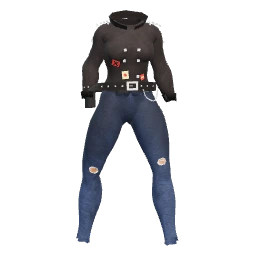
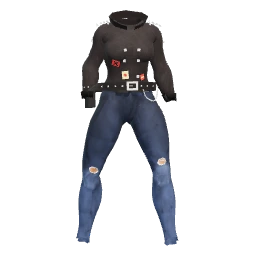
KA B2: denim, chainmail and patchwork as the coat detail
detail.webp (local FLUX.2 klein): a grey strip of three seamless tiles,
packed into the detail texture's RGB channels by loadDetail (awaited in
loadCharacters). DETAILS tones measured (180, test re-measures). Palettes:
leder trousers denim with lighter knee spots, kette:zit coat/hem/cuff mail,
spaeti coat/hem/cuff patch. Hero draws unchanged; icons I17, I49, I57
rendered again.

Changed region(s): [[0.5938, 0.625, 0.6875, 0.8438], [0.3125, 0.6562, 0.4062, 0.75], [0.3438, 0.8438, 0.375, 0.875]]

diff --git a/src/render/characters.ts b/src/render/characters.ts
@@ -7,7 +7,7 @@ import { DETAIL_PIECES, ensureDetail } from './hero-wear';
 import { HeroModel } from './hero-model';
 import { HERO_LAYER } from './layers';
 import {
-  AnimationClip, AnimationMixer, Color, DataTexture, Group, LinearFilter, LinearMipmapLinearFilter, LoopRepeat, Mesh, RGBAFormat, RepeatWrapping, SRGBColorSpace, TextureLoader,
+  AnimationClip, AnimationMixer, Color, DataTexture, Group, LinearFilter, LinearMipmapLinearFilter, LoopRepeat, Mesh, RGBAFormat, RepeatWrapping, SRGBColorSpace, TextureLoader, ImageLoader,
   Vector3, type AnimationAction, type BufferGeometry, type Object3D, type Texture,
 } from 'three';
 import { GLTFLoader, type GLTF } from 'three/examples/jsm/loaders/GLTFLoader.js';
@@ -116,9 +116,12 @@ async function loadClothing(anisotropy: number) {
   }));
 }
 
+/** KA B2: the grey detail strip (denim | mail | patch, 256 px cells; local FLUX.2 klein, `docs/local-ai-assets.md`). */
+const DETAIL_URL = new URL('../../assets/textures/hero/detail.webp', import.meta.url).href;
+
 /**
  * KA part B: the packed detail texture, one tiling grey material per channel (R denim, G chainmail, B patchwork),
- * 256 px, sRGB, repeating. Until step B2 delivers `detail.webp` every channel is flat at its `DETAILS` tone.
+ * 256 px, sRGB, repeating. Every channel is flat at its `DETAILS` tone until `loadDetail` packs the strip in.
  */
 function detailTexture(anisotropy: number): DataTexture {
   const S = 256, data = new Uint8Array(S * S * 4), ids = Object.keys(DETAILS) as DetailId[];
@@ -133,6 +136,27 @@ function detailTexture(anisotropy: number): DataTexture {
   t.anisotropy = anisotropy;
   t.needsUpdate = true;
   return t;
+}
+
+/**
+ * Packs cell i of the grey strip into channel i of `t` (lossy WebP cannot keep packed channels apart, so the file
+ * is grey and the packing happens here). A missing file keeps the flat tones (the look before B2).
+ */
+async function loadDetail(t: DataTexture): Promise<void> {
+  if (typeof document === 'undefined') return;
+  try {
+    const img = await new ImageLoader().loadAsync(DETAIL_URL);
+    const S = t.image.width, c = document.createElement('canvas');
+    c.width = S * 3;
+    c.height = S;
+    const g = c.getContext('2d', { willReadFrequently: true })!;
+    g.drawImage(img, 0, 0, S * 3, S);
+    const px = g.getImageData(0, 0, S * 3, S).data, out = t.image.data as Uint8Array;
+    for (let y = 0; y < S; y++) for (let x = 0; x < S; x++) for (let ch = 0; ch < 3; ch++) out[(y * S + x) * 4 + ch] = px[(y * S * 3 + ch * S + x) * 4]!;
+    t.needsUpdate = true;
+  } catch {
+    // Flat tones stay.
+  }
 }
 
 /**
@@ -209,6 +233,7 @@ function prepare(scene: Object3D, materials: Materials): void {
 export async function loadCharacters(materials: Materials, mechs: boolean | 'small' = false, humans = true, females = true, bosses?: readonly string[]): Promise<CharacterAssets> {
   const loader = new GLTFLoader();
   const clothingLoad = loadClothing(materials.profile.anisotropy);
+  const detail = detailTexture(materials.profile.anisotropy), detailLoad = loadDetail(detail);
   const mechLoad = mechs ? Promise.all((mechs === 'small' ? [mechUrl] : [mechUrl, mechBigUrl]).map((u) => loader.loadAsync(u))) as Promise<[GLTF, GLTF?]> : null;
   // H3: the human boss base only where a male humanoid boss can appear (review fix: not on Alexanderplatz or in the camp).
   const own = (Object.entries(OWN_BODIES) as Array<[EnemyKind, { url: string; base: 'human' | 'female' }]>).filter(([k, o]) => (o.base === 'human' ? humans : females) && (!bosses || bosses.includes(k)));
@@ -218,7 +243,8 @@ export async function loadCharacters(materials: Materials, mechs: boolean | 'sma
   const [heroGltf, zombieGltf, animGltf, raptorGltf, rexGltf, humanGltf, femaleGltf] = await Promise.all([heroUrl, zombieUrl, animsUrl, raptorUrl, rexUrl, humans ? humanUrl : null, females ? femaleUrl : null].map((u) => (u ? loader.loadAsync(u) : Promise.resolve(undefined)))) as [GLTF, GLTF, GLTF, GLTF, GLTF, GLTF | undefined, GLTF | undefined];
   const ownGltfs = await ownLoad;
   for (const g of new Set([heroGltf, zombieGltf, raptorGltf, rexGltf, humanGltf, femaleGltf, ...ownGltfs])) if (g) prepare(g.scene, materials);
-  const detail = detailTexture(materials.profile.anisotropy), swatch = new Color().setRGB(225 / 255, 0, 0, SRGBColorSpace).r;
+  await detailLoad;
+  const swatch = new Color().setRGB(225 / 255, 0, 0, SRGBColorSpace).r;
   const detailGain = new Vector3(...[0, 1, 2].map((c) => {
     const id = (Object.keys(DETAILS) as DetailId[]).find((d) => DETAILS[d].channel === c)!;
     return swatch / new Color().setRGB(DETAILS[id].tone / 255, 0, 0, SRGBColorSpace).r;

diff --git a/src/data/hero-look.ts b/src/data/hero-look.ts
@@ -67,9 +67,9 @@ export interface Spot { roles: readonly Role[]; x: number; y: number; r: number;
  * (`DETAIL_PIECES` in `src/render/hero-wear.ts`). One packed texture holds the three, one per colour channel.
  */
 export type DetailId = 'denim' | 'mail' | 'patch';
-/** Channel in the packed detail texture, tile size (m), and the cell's mean sRGB tone (225 = the coat swatch: no change until B2 measures it). */
+/** Channel in the packed detail texture (= its cell in `detail.webp`), tile size (m), and the cell's mean sRGB tone (measured; a test reads the file again). */
 export const DETAILS: Readonly<Record<DetailId, { channel: 0 | 1 | 2; tile: number; tone: number }>> = {
-  denim: { channel: 0, tile: 0.5, tone: 225 }, mail: { channel: 1, tile: 0.3, tone: 225 }, patch: { channel: 2, tile: 0.5, tone: 225 },
+  denim: { channel: 0, tile: 0.5, tone: 180 }, mail: { channel: 1, tile: 0.3, tone: 180 }, patch: { channel: 2, tile: 0.5, tone: 180 },
 };
 export interface Palette { roles: Partial<Record<Role, string>>; bands?: readonly Band[]; spots?: readonly Spot[]; detail?: Partial<Record<Role, DetailId>> }
 
@@ -80,7 +80,9 @@ export const PALETTES: Readonly<Record<string, Palette>> = {
   // Körper: Köpenick
   mantel: { roles: { coat: '#6b6538', hem: '#4a4626', cuff: '#4a4626', trousers: '#4a4038', leather: '#3a2414' } },
   // Körper: Xhain
-  leder: { roles: { coat: '#2a2426', hem: '#1a1416', cuff: '#1a1416', trousers: '#3a4a6a', leather: '#141012', brass: '#d8dce0' } },
+  // KA B2: denim jeans with worn, lighter knees.
+  leder: { roles: { coat: '#2a2426', hem: '#1a1416', cuff: '#1a1416', trousers: '#3a4a6a', leather: '#141012', brass: '#d8dce0' }, detail: { trousers: 'denim' },
+    spots: [{ roles: ['trousers'], x: 0.1, y: 0.5, r: 0.06, hex: '#5a6e94', side: 'front' }, { roles: ['trousers'], x: -0.1, y: 0.5, r: 0.06, hex: '#5a6e94', side: 'front' }] },
   feuer: { roles: { coat: '#a8281a', hem: '#e8d36a', cuff: '#6a160e', trousers: '#2a2c38', leather: '#1e1a1a', brass: '#b8bcc0' },
     bands: [{ roles: COAT, axis: 'y', from: 1.24, to: 1.275, hex: '#e8d36a' }, { roles: COAT, axis: 'x', from: 0.47, to: 0.5, hex: '#e8d36a' }, { roles: ['trousers'], axis: 'y', from: 0.25, to: 0.285, hex: '#e8d36a' }] },
   bvg: { roles: { coat: '#26304a', hem: '#f2c230', cuff: '#f2c230', trousers: '#222a40', leather: '#141620', brass: '#f2c230' } },
@@ -95,10 +97,11 @@ export const PALETTES: Readonly<Record<string, Palette>> = {
     bands: [{ roles: ['vest'], axis: 'y', from: 1.13, to: 1.16, hex: '#f08a24' }, { roles: ['vest'], axis: 'y', from: 1.19, to: 1.22, hex: '#f08a24' }] },
   'mantel:spree': { roles: { coat: '#1f7a6a', hem: '#0e4a40', cuff: '#0e4a40', trousers: '#1e3a36', leather: '#2aa890', brass: '#cfe8e0' },
     bands: [{ roles: COAT, axis: 'y', from: 0.6, to: 0.635, hex: '#7fe0c8', wave: 0.018 }, { roles: COAT, axis: 'y', from: 0.665, to: 0.69, hex: '#5ac8b0', wave: 0.018 }] },
-  // Steel darker than the mockup's base: there the mail ring pattern darkens it (texture from Codex later).
-  'kette:zit': { roles: { coat: '#6c727a', hem: '#4a5058', cuff: '#4a5058', trousers: '#3a3c42', leather: '#5a2a1a', brass: '#e0b040' } },
+  // Steel darker than the mockup's base; the mail rings (KA B2 detail) sit on coat, hem and cuffs.
+  'kette:zit': { roles: { coat: '#6c727a', hem: '#4a5058', cuff: '#4a5058', trousers: '#3a3c42', leather: '#5a2a1a', brass: '#e0b040' }, detail: { coat: 'mail', hem: 'mail', cuff: 'mail' } },
   // Körper: legendaries
-  spaeti: { roles: { coat: '#5a2a78', hem: '#3a1a50', cuff: '#3a1a50', trousers: '#2a2430', leather: '#2a1a1a', brass: '#f2d14b' },
+  // KA B2: patchwork squares under the coloured patches.
+  spaeti: { roles: { coat: '#5a2a78', hem: '#3a1a50', cuff: '#3a1a50', trousers: '#2a2430', leather: '#2a1a1a', brass: '#f2d14b' }, detail: { coat: 'patch', hem: 'patch', cuff: 'patch' },
     spots: [
       { roles: COAT, x: -0.12, y: 0.98, r: 0.045, hex: '#e07020', side: 'front' }, { roles: COAT, x: 0.13, y: 0.84, r: 0.05, hex: '#2f8a4a', side: 'front' },
       { roles: COAT, x: -0.16, y: 0.66, r: 0.05, hex: '#d8c040', side: 'front' }, { roles: COAT, x: 0.1, y: 0.6, r: 0.045, hex: '#c8302a', side: 'front' },

diff --git a/src/render/hero-wear.test.ts b/src/render/hero-wear.test.ts
@@ -1,5 +1,6 @@
+import sharp from 'sharp';
 import { describe, expect, it } from 'vitest';
-import { CUT, PALETTES, type Palette } from '../data/hero-look';
+import { CUT, DETAILS, PALETTES, type Palette } from '../data/hero-look';
 import { readHeroGlb } from './hero-glb-node';
 import { CHART_AXES, ROLE_IDS, chartOf, detailAttributes, ensureDetail, pieceInfo, pieceVariant } from './hero-wear';
 
@@ -150,13 +151,23 @@ describe('coat detail (KA part B)', () => {
 
   it('a palette without detail shares the zero pair, and variants stay cached', () => {
     const info = pieceInfo(coat, 'a_mantel');
-    const a = detailAttributes(src, info, 'leder'), b = detailAttributes(src, info, '');
+    const a = detailAttributes(src, info, 'mantel'), b = detailAttributes(src, info, '');
     expect(a.w).toBe(b.w);
     expect(Array.from(a.w.array).every((x) => x === 0)).toBe(true);
-    const v1 = pieceVariant(coat, 'a_mantel', src, 'leder', 0, 0), v2 = pieceVariant(coat, 'a_mantel', src, 'leder', 0, 0);
+    const v1 = pieceVariant(coat, 'a_mantel', src, 'mantel', 0, 0), v2 = pieceVariant(coat, 'a_mantel', src, 'mantel', 0, 0);
     expect(v1).toBe(v2);
     expect(v1.attributes.detailW).toBe(a.w);
     ensureDetail('a_mantel', src);
     expect(src.attributes.detailW).toBe(a.w);
+  });
+
+  it('DETAILS tones match the mean of each cell of detail.webp (within 2), one cell per channel', async () => {
+    const { data, info } = await sharp('assets/textures/hero/detail.webp').greyscale().raw().toBuffer({ resolveWithObject: true });
+    expect([info.width, info.height]).toEqual([768, 256]);
+    for (const d of Object.values(DETAILS)) {
+      let sum = 0;
+      for (let y = 0; y < 256; y++) for (let x = 0; x < 256; x++) sum += data[y * 768 + d.channel * 256 + x]!;
+      expect(Math.abs(sum / 65536 - d.tone)).toBeLessThanOrEqual(2);
+    }
   });
 });

diff --git a/docs/asset-pipeline.md b/docs/asset-pipeline.md
@@ -99,7 +99,7 @@ T1 is done (PR #14). The T1b paving and leaf images are built, with performance 
 | P24 | Shared landmark weathering: soot, cracks, moss and graffiti on an alpha atlas | Procedurally painted decal atlas | Sized to each facade | Built, [P24/T5 review and performance open](tasks/p24-t5-landmark-weathering.md) |
 | M15 Mitte step 9 | Wet asphalt, curtain wall glazing, sandstone and neon signs | Shared street, existing glass and sandstone materials, and authored Mitte sign atlas | Existing UV scale | Built, [Mitte proof and handover](proof/asset-mitte/README.md) |
 | M11c | Lot and plant textures, including paving marks, rubble, structures and vegetation | Code-painted lot and plant materials | Per surface | Built, [review and performance open](tasks/m11c-textures.md) |
-| T9 | Hero clothing materials (WP4 step 2, after Johannes picks the mockups in `docs/mockups/wp4-clothes/`): neutral, tileable albedos that multiply the palette colours, like the H1 piece maps: tweed (Schiebermütze), denim with worn knees (Lederjacke jeans), coarse knit (Wollmütze), straw weave (Strohhut), chainmail rings (Kettenhemd der Zitadelle), patchwork squares (Mantel des letzten Späti). Decals with alpha: back print "KIEZWACHE" (vest back), Zitadelle crest (tabard). Fur: reuse the T8 matted fur for the Mantel der Rattenmutter | flat vertex colours of the palettes and gear parts (`src/render/gear.ts`, built in WP4 step 2) | 0.3 to 0.5 m (cloth), decals 0.25 m | `docs/tasks/wp4-equipment-visuals.md` › Step 2 looks; tweed, knit and straw built 2026-11-24 locally as painted cells 4 to 6 of the gear and weapon grain atlas (`assets/textures/hero/grain-cloth.webp`, `paintGrain` now 4 × 2 cells, 1024 × 512: +0.5 MB per atlas copy, 0 draw calls; `tweed`, `knit`, `straw` paints on Schiebermütze, Wollmütze, Strohhut; [before and after](proof/t9-hats/before-after.jpg)). Open: denim, chainmail and patchwork sit on the `a_mantel` piece whose one map also covers the trousers, so they need a role mask first (a second map chosen per vertex role); decals open |
+| T9 | Hero clothing materials (WP4 step 2, after Johannes picks the mockups in `docs/mockups/wp4-clothes/`): neutral, tileable albedos that multiply the palette colours, like the H1 piece maps: tweed (Schiebermütze), denim with worn knees (Lederjacke jeans), coarse knit (Wollmütze), straw weave (Strohhut), chainmail rings (Kettenhemd der Zitadelle), patchwork squares (Mantel des letzten Späti). Decals with alpha: back print "KIEZWACHE" (vest back), Zitadelle crest (tabard). Fur: reuse the T8 matted fur for the Mantel der Rattenmutter | flat vertex colours of the palettes and gear parts (`src/render/gear.ts`, built in WP4 step 2) | 0.3 to 0.5 m (cloth), decals 0.25 m | `docs/tasks/wp4-equipment-visuals.md` › Step 2 looks; tweed, knit and straw built 2026-11-24 locally as painted cells 4 to 6 of the gear and weapon grain atlas (`assets/textures/hero/grain-cloth.webp`, `paintGrain` now 4 × 2 cells, 1024 × 512: +0.5 MB per atlas copy, 0 draw calls; `tweed`, `knit`, `straw` paints on Schiebermütze, Wollmütze, Strohhut; [before and after](proof/t9-hats/before-after.jpg)). Denim, chainmail and patchwork built 2026-11-25 locally as the coat detail (`docs/tasks/kit-texture-atlas.md` B2: `assets/textures/hero/detail.webp`, a 768 × 256 grey strip packed into one RGB texture, a second tiling sampler on `a_mantel` chosen per role; 0 draw calls, +0.35 MB): denim on the Lederjacke trousers with lighter knee `spots`, mail on coat, hem and cuffs of the Kettenhemd der Zitadelle, patchwork under the Späti coat's patches; icons I17, I49, I57 rendered again ([before and after](proof/t9-detail/before-after.jpg), [game scale](proof/t9-detail/game-scale.jpg)); decals open |
 | T11 | Fernsehturm (M17 step 5, board `docs/style/fernsehturm.webp`): (1) the city image seen from 200 m up at dawn, one 1024 × 1024 square, north up, the tower in the middle (hidden under the deck), each district at its bearing as in `src/render/turm-city.ts` `PATCHES` (Alexanderplatz golden afternoon east, Xhain fire-orange with the Wall south-east, Köpenick green fog far south-east, Mitte magenta and cyan under rain west, Charlottenburg silver with searchlights far west, Wedding gold and emerald lanterns north-west, the Spree), the rim fading to haze; (2) interior atlas 1024 × 1024 in four quarters: orange enamel panels with rivets and rust chips, steel ribs and slanted window frame, a cream clock dial with hour marks, Telecafé cloth (tablecloth white, booth cobalt and mustard); (3) the five deck floors as 768² radial paintings (terrazzo star, grating, slate with curved seams twice, dial floor) | `paintCity`, `paintEnamel`, `paintDial`, `paintDeckFloor`, `paintBand` (`src/render/turm-paint.ts`) | city: 520 m; panels 2 m; floors one deck each | `docs/tasks/m17-fernsehturm.md` step 5; (1) city built 2026-11-24 locally (`assets/textures/turm/city.webp`, [before and after](proof/t11-city/before-after.jpg)); (2) the enamel core built the same day (`turm/enamel.webp` on the core, [before and after](proof/t11-enamel/before-after.jpg)); the dial too (`turm/dial.webp`, [before and after](proof/t11-dial/before-after.jpg)); Telecafé cloth reuses the Wedding cloth map ([before and after](proof/t11-telecafe/before-after.jpg)); steel ribs tried 2026-11-25 and dropped (metal at 0.6 reflects the dark deck, the paint does not show; they stay colour only); (3) four deck floors built the same day (`turm/floor-*.webp`, [before and after](proof/t11-floors/before-after.jpg)), the Schacht grating keeps its canvas |
 | T12 | Fernsehturm ending cards (M17 step 4, optional): two 640 × 320 paintings in the style of the boards. „Normalzeit“: Berlin at sunrise in one time, the tower in the middle, the clock ticking again. „Stillstand“: night, the districts side by side each in its own era colour (green, orange, gold, magenta, emerald), stars, the tower lit | `art()` SVG in `src/ui/turm-ending.ts` | the card box | `docs/tasks/m17-fernsehturm.md` step 5; built 2026-11-24 locally (`assets/ui/ending-*.webp`, 768 × 512 like the intro art, replace the SVGs), [before and after](proof/t12-ending/before-after.jpg) |
 

diff --git a/docs/migration.md b/docs/migration.md
@@ -11,7 +11,7 @@ Open work only. Read `CLAUDE.md`, then the linked task and only its source and t
 | LA Local AI asset trials (Johannes, 2026-11-22: "start the local asset test"): LA1 T9a Charlottenburg stucco with FLUX.2 klein, then LA2 one Pixal3D prop, then LA3 hero clothing. Runs on the PC only (ComfyUI) | Claude · Opus medium (LA1), Opus high (LA2, LA3) · PC | LA1 built 2026-11-22, round 2 (icons K4/K5, roofs T9e, iron T9i) and LA2 (Schlossgarten urn) built 2026-11-22 (Johannes looks at them, Playtest rows); LA3 built 2026-11-22 (Regenponcho, Quaternius Ranger boots); open: Johannes' hand clean-up on a second prop and the playtest rows: `docs/local-ai-assets.md` › Trials |
 | P1b Proxy passes: one draw call per chunk in the pre-pass and the shadow pass (draw calls about −50 %) | Claude · Opus high (spec: Fable high) | open, after Johannes' heat measurements (checks 1 to 3): `docs/tasks/p1b-proxy-passes.md` |
 | M14 balance calibration to Johannes (B9, B10) | Claude · Fable high | after the playtest: `docs/tasks/m14-balance-bot.md`, `docs/balance.md` |
-| Painted textures, local (W1 FLUX.2 klein, Codex paused): T6, T9a to T9e, T9i, T9j, T11, T12, T14 built (PR #96, #97); round 3 merged (PR #98, 2026-11-24): T8 decayed skin, T9 tweed, knit and straw, P3 Trabi, P44 bus. round 4 (2026-11-25): T9g posters, T13 Wedding signs, T9f/T9h Charlottenburg atlas regions (FLUX paints, code letters); T11 ribs and a kit glass map dropped. Open, designed 2026-11-25 (Fable high) in `docs/tasks/kit-texture-atlas.md`, both at 0 draw calls: part A, a shared kit atlas in the `paint` bake (T10 filo, brass, tea glass; T8 ear skin; kit `mirror`), steps A1 to A3; part B, a tiling detail sampler on `a_mantel` chosen per role (T9 denim, chainmail, patchwork), steps B1 and B2. Also open: T9 decals; P3 Wartburg and BVG bus after Johannes' Trabi verdict | Claude · Opus high · PC (A1 and B1 need no PC) | open: `docs/tasks/kit-texture-atlas.md` › Steps (A1 or B1 first, they are independent); art rules in `docs/local-ai-assets.md` › W1, `docs/asset-pipeline.md` › Texture queue |
+| Painted textures, local (W1 FLUX.2 klein, Codex paused): T6, T9a to T9e, T9i, T9j, T11, T12, T14 built (PR #96, #97); round 3 merged (PR #98, 2026-11-24): T8 decayed skin, T9 tweed, knit and straw, P3 Trabi, P44 bus. round 4 (2026-11-25): T9g posters, T13 Wedding signs, T9f/T9h Charlottenburg atlas regions (FLUX paints, code letters); T11 ribs and a kit glass map dropped. KA (`docs/tasks/kit-texture-atlas.md`, designed by Fable high, 0 draw calls): A1 and B1 mechanisms merged (PR #105, #106); A2 T10 filo and brass in the shared kit atlas, B2 T9 denim, chainmail and patchwork as the coat detail (2026-11-25). Open: A3 (T8 ear skin, kit `mirror`, T10 tea glass), T9 decals; P3 Wartburg and BVG bus after Johannes' Trabi verdict | Claude · Opus high · PC | open: `docs/tasks/kit-texture-atlas.md` › A3; art rules in `docs/local-ai-assets.md` › W1, `docs/asset-pipeline.md` › Texture queue |
 | Texture performance and rail follow-up: T1b, plus profile checks for the new painted batches | Claude and Johannes | open: `docs/tasks/t1b-ground-polish.md`, `docs/tasks/pt-hardware-checks.md` |
 | WP4 Hero, weapons and loot visuals: equipment on the hero (P32), pickups per kind (P10), legendary and set looks (P31), 2D #2 close-out, daggers (2D #38). Step 1 (weapon model per base, weapon types, rendered icons) is built | Claude · Opus high (spec: Fable high, done) | open: step 2 (clothing) built 2026-11-19, tunnel set waits for Johannes' pick; step 3 next; `docs/tasks/wp4-equipment-visuals.md` (gates G2 to G4 need Johannes before steps 3, 5, 6b) |
 | Backlog ready to build: P17 Spreepark dinos, P18 ambient animals | Claude · Opus high | open: `docs/backlog.md` |

diff --git a/docs/equipment-pipeline.md b/docs/equipment-pipeline.md
@@ -78,7 +78,7 @@ Legend: 3D `model:x` = own weapon model per base (`src/render/weapons.ts`, key f
 | Hackmesser der Kiezwache | brech | w | set kiez | model:brech:kiez | yes | I91 | yes: rendered from the model | E | 3 |
 | Zwille des Spreegeists | zwille | w | set spree | model:zwille:spree | yes | I92 | yes: rendered from the model | E | 3 |
 | Rohrzange des Tunnelläufers | zange | w | set tunnel | model:zange:tunnel | yes | I101 | yes: rendered from the model | E | 3 |
-| Lederjacke | leder | a | normal | wear:leder | yes | I17 | yes: rendered from the look | T | 2 |
+| Lederjacke | leder | a | normal | wear:leder | yes | I17 | yes: rendered from the look (denim, KA B2) | - | 2 |
 | Arbeitsmantel | mantel | a | normal | wear:mantel | yes | I18 | yes: rendered from the look | none | 2 |
 | Schutzweste | weste | a | normal | wear:weste | yes | I19 | yes: rendered from the look | none | 2 |
 | Feuerwehrjacke | feuer | a | normal | wear:feuer | yes | I20 | yes: rendered from the look | none | 2 |
@@ -86,13 +86,13 @@ Legend: 3D `model:x` = own weapon model per base (`src/render/weapons.ts`, key f
 | Regenponcho | poncho | a | neon | wear:poncho (own `a_poncho` piece, B1, 2026-11-22) | yes | I63 | yes: rendered from the look | none | 4 |
 | Kabelmantel | kmantel | a | neon | wear:kmantel | yes | I64 | yes: rendered from the look | none | 4 |
 | Blaumann | blaumann | a | GDR | wear:blaumann | yes | I75 | yes: rendered from the look | none | 4 |
-| Mantel des letzten Späti | spaeti | a | legendary | wear:spaeti | yes | I49 | yes: rendered from the look | T, E | 3 |
+| Mantel des letzten Späti | spaeti | a | legendary | wear:spaeti | yes | I49 | yes: rendered from the look (patchwork, KA B2) | E | 3 |
 | Panzer vom Tempelhofer Feld | panzer | a | legendary | wear:panzer | yes | I50 | yes: rendered from the look | E | 3 |
 | Mantel der Rattenmutter | rattenmantel | a | legendary | wear:rattenmantel | yes | I54 | yes: rendered from the look | T, E | 3 |
 | Rüstung des Zitadellenritters | ritter | a | legendary | wear:ritter | yes | I55 | yes: rendered from the look | E | 3 |
 | Weste der Kiezwache | weste | a | set kiez | wear:weste:kiez | yes | I93 | yes: rendered from the look | none | 3 |
 | Mantel des Spreegeists | mantel | a | set spree | wear:mantel:spree | yes | I94 | yes: rendered from the look | none | 3 |
-| Kettenhemd der Zitadelle | kette | a | set zit | wear:kette:zit | yes | I57 | yes: rendered from the look | T | 3 |
+| Kettenhemd der Zitadelle | kette | a | set zit | wear:kette:zit | yes | I57 | yes: rendered from the look (chainmail, KA B2) | - | 3 |
 | Mantel des Tunnelläufers | mantel | a | set tunnel | wear:mantel:tunnel | yes | I98 | yes: rendered from the look | none | 3 |
 | Kaftan des Ewigen Gasts | mantel | a | set gast (M18) | wear:mantel:gast (emerald coat, ruby hem and trousers, gold cuffs and buttons, plain belt) | yes | I104 | yes: rendered from the look | none | 3 |
 | Bauhelm | helm | h | normal | wear:helm | yes | I22 | yes: rendered from the look | none | 2 |

diff --git a/docs/local-ai-assets.md b/docs/local-ai-assets.md
@@ -224,3 +224,4 @@ FLUX cannot letter, so every sign and poster is split: FLUX paints the picture o
 - KA A2 enemy kit atlas: `enemies/kit.webp` cells 1 to 3 (filo side, filo top, brass), `docs/tasks/kit-texture-atlas.md`. Text to image, 8 per cell; the picks show the whole object (a pastry stack, a tray), so crop the middle, then `texture-tile.mjs --size 256`. `compose.mjs` pulls each cell to grey around one tone (saturation 0.2, contrast 0.7, highlights above tone + 30 compressed: FLUX's glossy glaze otherwise blows out once the dark pick is brightened). The vertex colour carries the hue. Cell means go into `KIT_TONE`; a unit test measures the file again.
 - Density: a box face gets the whole cell, so the filo side crop holds about 4 layers (a 680 px crop gave 8 and read as wood grain on 0.2 m arm boxes). Filo shows at the game camera; brass only on larger parts (samovar), buttons and crowns unchanged.
 - Check with the tool's ready promise: the first sheets showed no change because `tools/enemy-sheet` rendered before the image was in (fixed: it now awaits `kitReady()` in every mode). Look at a large close-up first to see the map is on at all.
+- KA B2 coat detail: `hero/detail.webp`, three grey 256 px tiles (denim, mail, patch) packed into RGB by the loader. Counts that matter (8 rings, 5 patches across) come from a code-drawn seamless start image (`assets-src/ai/ka-b2/init*.mjs`): mail at 0.55 kept the ring grid; patchwork from flat grey squares stayed flat at 0.5 to 0.58 and lost the grid at 0.65, so the start squares are crops of the repo's own cloth textures (coat, poncho, wool, tweed, knit, denim) and FLUX unifies them at 0.45. Denim with a centred seam must skip the `texture-tile` blend (`--band 0`), or the shifted copy adds a second seam. Each cell moved to mean 180: the dark mail (mean 93) would need a 7× gain and glare.

diff --git a/assets/LICENSES.md b/assets/LICENSES.md
@@ -270,6 +270,7 @@ Not used in gate 1: Mixamo, Kenney, KayKit, Poly Haven.
 | `textures/hero/boots.webp` | OpenAI image generation | Codex for Johannes | Own work | Cracked boot leather, neutral albedo, 512 px |
 | `textures/hero/sneakers.webp` | OpenAI image generation | Codex for Johannes | Own work | Worn sneaker canvas, neutral albedo, 512 px |
 | `textures/hero/gloves.webp` | OpenAI image generation | Codex for Johannes | Own work | Rubbed glove leather, neutral albedo, 512 px |
+| `textures/hero/detail.webp` | FLUX.2 klein 4B (Apache 2.0), local ComfyUI (`tools/comfy.mjs`): grey strip of three seamless 256 px tiles. Denim (text to image, seed 5); chainmail (img2img at 0.55 from a code-drawn ring grid, 8 rings across, seed 2); patchwork (img2img at 0.45 from a 5 × 5 grid of crops of this repo's own cloth textures, seed 31). Composed with `assets-src/ai/ka-b2/compose.mjs` | Claude (for Johannes) | Own work | KA B2 (T9), 2026-11-25; each cell moved to mean tone 180 |
 | `textures/hero/scarf.webp` | OpenAI image generation | Codex for Johannes | Own work | Scarf knit, neutral albedo, 512 px |
 | `textures/alex/signs.webp` | OpenAI image generation, Pioneer palette and 2D GDR art reference | Codex for Johannes | Own work | Painted mosaics, enamel, brushed aluminum and glazing packed around existing exact signage, 2048 × 1536 WebP |
 | `textures/alex/stone-atlas.webp` | OpenAI image generation, 2D Alexanderplatz limestone, copper and relief references | Codex for Johannes | Own work | Sandstone, verdigris copper and terracotta frieze, 2048 × 2048 WebP |

diff --git a/docs/tasks/pt-hardware-checks.md b/docs/tasks/pt-hardware-checks.md
@@ -14,6 +14,7 @@ Built features nobody has played yet. Delete a row once Johannes has played it; 
 
 | Area | What to try | Task file |
 |---|---|---|
+| Coat detail (KA B2) | Lederjacke, Kettenhemd der Zitadelle, Mantel des letzten Späti: do denim, chainmail and patchwork read at the game camera on Qualität, Ausgewogen and Leistung, and on the inventory doll (turn it once)? Mail not too bright or flickering at a distance? | `docs/tasks/kit-texture-atlas.md` |
 | Painted filo and brass (KA A2) | Wedding: do the Baklava-Brocken and the Hauptgericht read as flaky pastry (crust on top, layers on the sides) and not as wood? Brass on the samovar and the Sultan still brass? | `docs/tasks/kit-texture-atlas.md` |
 | Local art round 4 (2026-11-25) | Look: Charlottenburg posters on the walls (City West, Ku'damm), the Ku'damm curtain, marble and glass, the Aquarium reliefs; Wedding signs, the Magendoktor mural and door, the Beamtentor lettering. A short hitch when the painted atlases arrive (one re-upload each)? | `docs/local-ai-assets.md` › Round 4 |
 | Boss bodies (H4) | Every humanoid boss now has an own body (`?spawn=` any of them, e.g. `sultan,conferencier,dirigent,bassprediger,spiegelpaar`): the Pixal3D bodies with upright clips. Do they read at the game camera? Tearing at shoulders, knees or long coats and capes in walk, attack, charge and death? The Diva's gown tiers still break at 66 % and 33 %; the Zugezogene's cup sits a little off his hand | `docs/tasks/h3-humanoid-bosses.md` steps 6 and 7 |

diff --git a/.claude/skills/local-ai-assets/SKILL.md b/.claude/skills/local-ai-assets/SKILL.md
@@ -35,4 +35,5 @@ Routes per asset group, licences and the full workflows: `docs/local-ai-assets.m
 - **Clothing from a Quaternius outfit part** (same skeleton as the hero): import, weld, decimate, push out of the skin and past the trousers, `rebind_weights` from the body, and turn its texture's brightness into vertex colour so palettes work (`ranger_boots` in `tools/blender/hero_clothes.py`).
 - **FLUX cannot letter: split signs and posters.** FLUX paints the picture or the board (start image: the code art with `fillText` switched off), the code draws the lettering on top; load the painted file as an `Image` and repaint the canvas atlas from it (0 draw calls). Key a pick's flat ground out to the target colour instead of tinting the whole pick (`assets-src/ai/t9g-pics/compose.mjs`). Round 4 in `docs/local-ai-assets.md`.
 - **Check it in game before keeping it.** Metal at metalness 0.6 in a dark room, or a map on small glowing shards, shows no change at game scale: render before and after (rename the file away for "before") and drop it if nobody can tell.
+- **Exact counts need a code-drawn start.** Rings or patches per tile: draw a seamless grid in code and img2img at 0.45 to 0.55. A flat, clean start stays flat; fill its cells with crops of real textures first (`assets-src/ai/ka-b2/init-patch2.mjs`).
 - **A texture on a shared material changes every district.** Swap it per district (`makeMats` district in `src/render/world.ts`); a new material means more draw calls and needs a reason.

diff --git a/docs/tasks/kit-texture-atlas.md b/docs/tasks/kit-texture-atlas.md
@@ -1,6 +1,6 @@
 # KA Kit texture atlas and hero coat detail [spec: Claude · Fable high; build: Claude · Opus high]
 
-Status: designed 2026-11-25 (Fable 5.2). A1 built 2026-11-25 (Opus): `src/render/kit-atlas.ts`, flat cells, no visible change (enemy sheets: same `calls=`, differences only where the animation pose moved). A2 built 2026-11-25 (Opus): filo and brass cells in `kit.webp`, `KIT_TONE` measured, calls unchanged, Kodex E23 and X25 rendered again ([proof](../proof/t10-kit/)). Two rendering designs that unblock the last local texture items. Part A and part B touch different files and can be built in parallel sessions; the art steps need the PC (ComfyUI).
+Status: designed 2026-11-25 (Fable 5.2). A1 built 2026-11-25 (Opus): `src/render/kit-atlas.ts`, flat cells, no visible change (enemy sheets: same `calls=`, differences only where the animation pose moved). A2 built 2026-11-25 (Opus): filo and brass cells in `kit.webp`, `KIT_TONE` measured, calls unchanged, Kodex E23 and X25 rendered again ([proof](../proof/t10-kit/)). B2 built 2026-11-25 (Opus): `detail.webp` (denim, mail, patch at tone 180), palettes `leder`, `kette:zit`, `spaeti`, hero draws unchanged, icons I17, I49, I57 ([proof](../proof/t9-detail/before-after.jpg)). Two rendering designs that unblock the last local texture items. Part A and part B touch different files and can be built in parallel sessions; the art steps need the PC (ComfyUI).
 
 ## Goal
 
